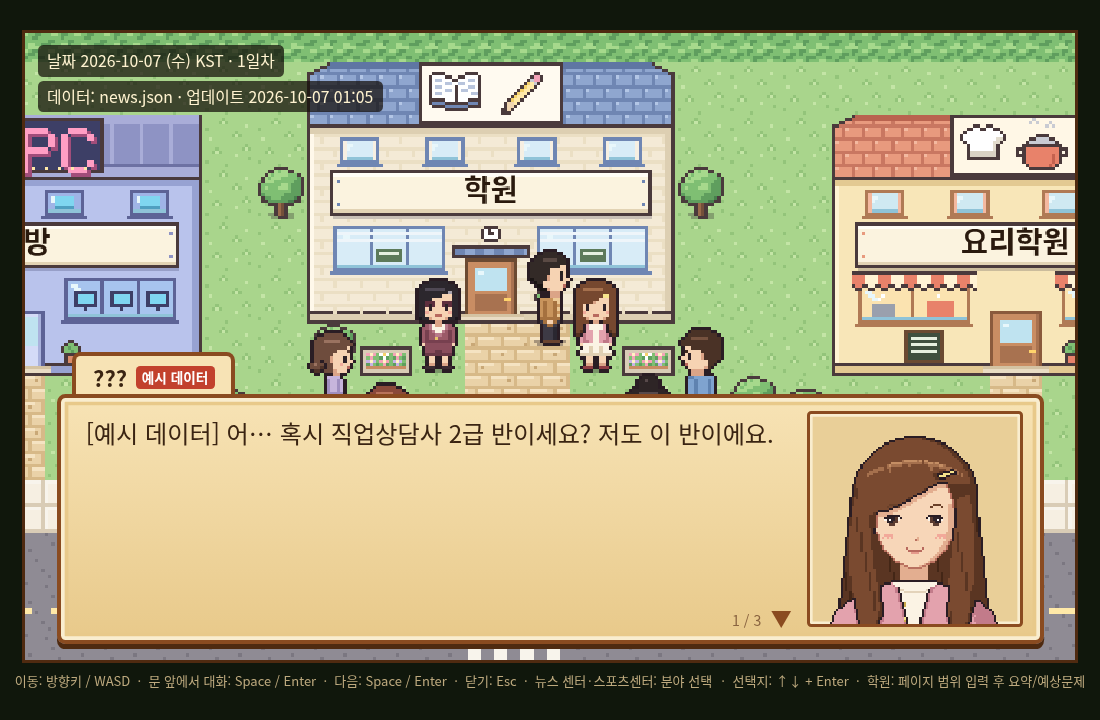
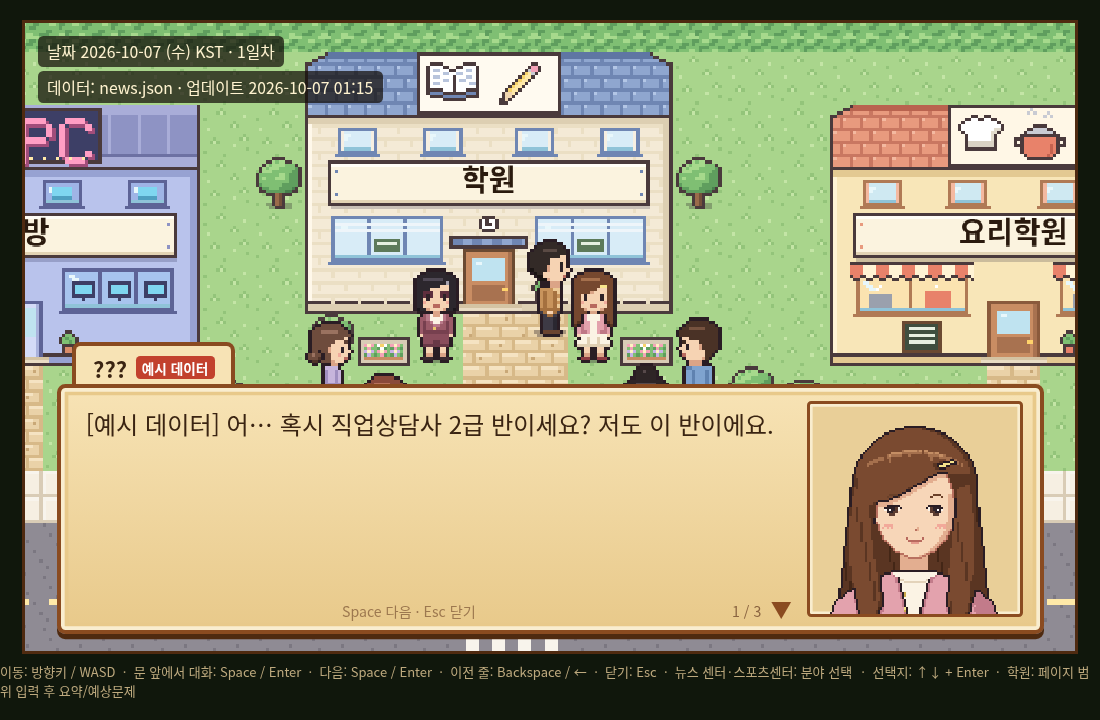
배포 업데이트 2026-10-07 01:19 KST

diff --git a/game/js/main.js b/game/js/main.js
@@ -216,6 +216,7 @@
         w: KC.W, a: KC.A, s: KC.S, d: KC.D, space: KC.SPACE, enter: KC.ENTER, esc: KC.ESC
       });
       var onAction = function (ev) {
+        if (ev && ev.preventDefault) ev.preventDefault();   // 상호작용 Space 가 방금 포커스된 학원 입력칸에 공백으로 들어가지 않게
         if (ev && ev.repeat) return;
         if (DotGame.Academy.isOpen() || DotGame.NewsCenter.menuVisible()) return;
         if (DotGame.Dialogue.isOpen()) { DotGame.Dialogue.advance(); return; }

diff --git a/docs/DATA_FORMAT.md b/docs/DATA_FORMAT.md
@@ -267,6 +267,7 @@
 | **나레이션** `{ "speaker": "　", "text": "(…)" }` 또는 `{ "narration": true, "text": "(…)" }` | `speaker` 가 공백뿐(전각 공백 `　` 포함)이거나 `narration: true` 면 나레이션이다. **이름표·초상화 없이** 어두운 보라색 상자에 가운데 정렬 기울임체로 나온다. 스토리 봇의 기존 `"　"` + `portrait: null` 표기가 그대로 동작한다 |
 | **선택지** `{ "prompt"?, "choices": [ { "id"?, "text", "lines"?, "set_flags"?, "affection"? } ] }` | 반응만 다른 선택지(2~4개). 대화창에 보기가 뜨고 ↑↓/W/S/숫자키로 고른 뒤 Enter/Space(또는 클릭)로 정한다. 고른 말이 현수 대사로 한 쪽 나온다. 그다음 그 선택지의 `lines` 반응이 나오고, **장면의 다음 줄로 똑같이 이어진다**. `id`(생략 시 a, b, c…)는 세이브 `story.choices["캐릭터id/장면id#줄번호"]` 에 남는다. `set_flags`/`affection` 은 고른 선택지만 적용된다 |
 
+- 플레이어는 Backspace/← 로 이전 줄로 돌아갈 수 있다. 선택지는 **첫 선택이 고정**되고, 선택지·장면 효과는 한 번만 적용된다(README '이전 줄 규칙').
 - `emotion` (표정 태그)은 받아 두기만 하고 아직 표시하지 않는다.
 - 스토리 봇 메모: E01 쉬는 시간 선택지(A 필기 공유 / B S형)는 이제 `choices` 로 넣을 수 있다. 선택 결과 플래그로 E02 인사말을 바꾸려면 E02 를 플래그별로 두 장면으로 나눈다.
 
